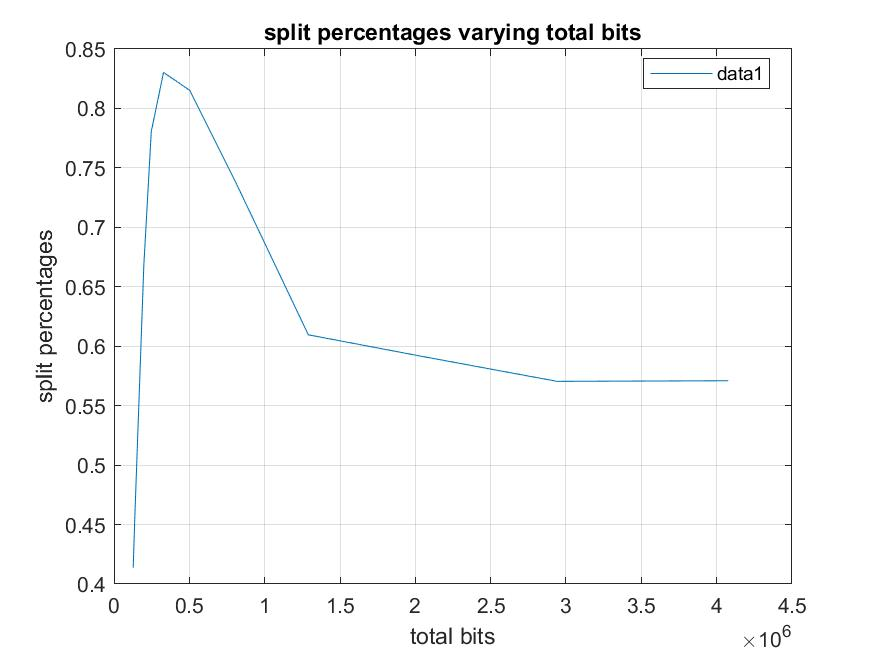
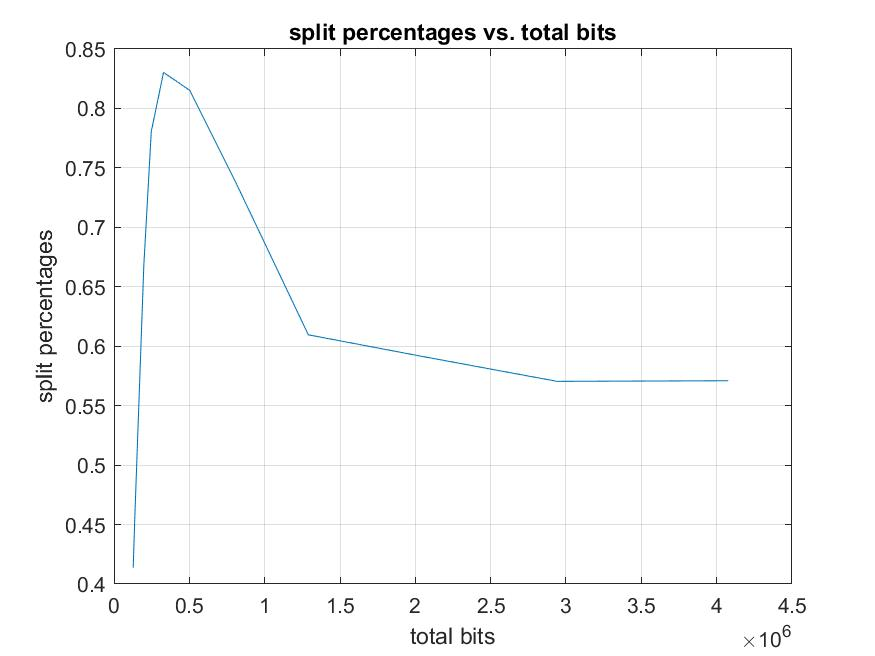
remove legend and update title

Changed region(s): [[0.3086, 0.0305, 0.7406, 0.061], [0.8023, 0.0915, 0.864, 0.122]]

diff --git a/A2/report_script.m b/A2/report_script.m
@@ -55,8 +55,8 @@ function part2And3(yuvInputFileName, nFrame, width, height, plotOutputPath)
         splitPercentages = [splitPercentages, splitPercentage];
     end
 
-    plotAgainstFrame(QPs, splitPercentages, 'QP', 'split percentages', 'split percentages varying QP', 'q2.jpeg', plotOutputPath);
-    plotAgainstFrame(totalBits, splitPercentages, 'total bits', 'split percentages', 'split percentages varying total bits', 'q3.jpeg', plotOutputPath);
+    plotAgainstFrame(QPs, splitPercentages, 'QP', 'split percentages', 'split percentages vs. QP', 'q2.jpeg', plotOutputPath);
+    plotAgainstFrame(totalBits, splitPercentages, 'total bits', 'split percentages', 'split percentages vs. total bits', 'q3.jpeg', plotOutputPath);
 end
 
 function plotAgainstFrame(x_frame, yVals, xaxisLabel, yaxisLabel, titleStr, filenameStr, plotOutputPath)
@@ -65,7 +65,6 @@ function plotAgainstFrame(x_frame, yVals, xaxisLabel, yaxisLabel, titleStr, file
         plot(x_frame, yVals(i, :));
         hold on
     end
-    legend('location', 'best');
     xlabel(xaxisLabel);
     ylabel(yaxisLabel);
     grid on;
